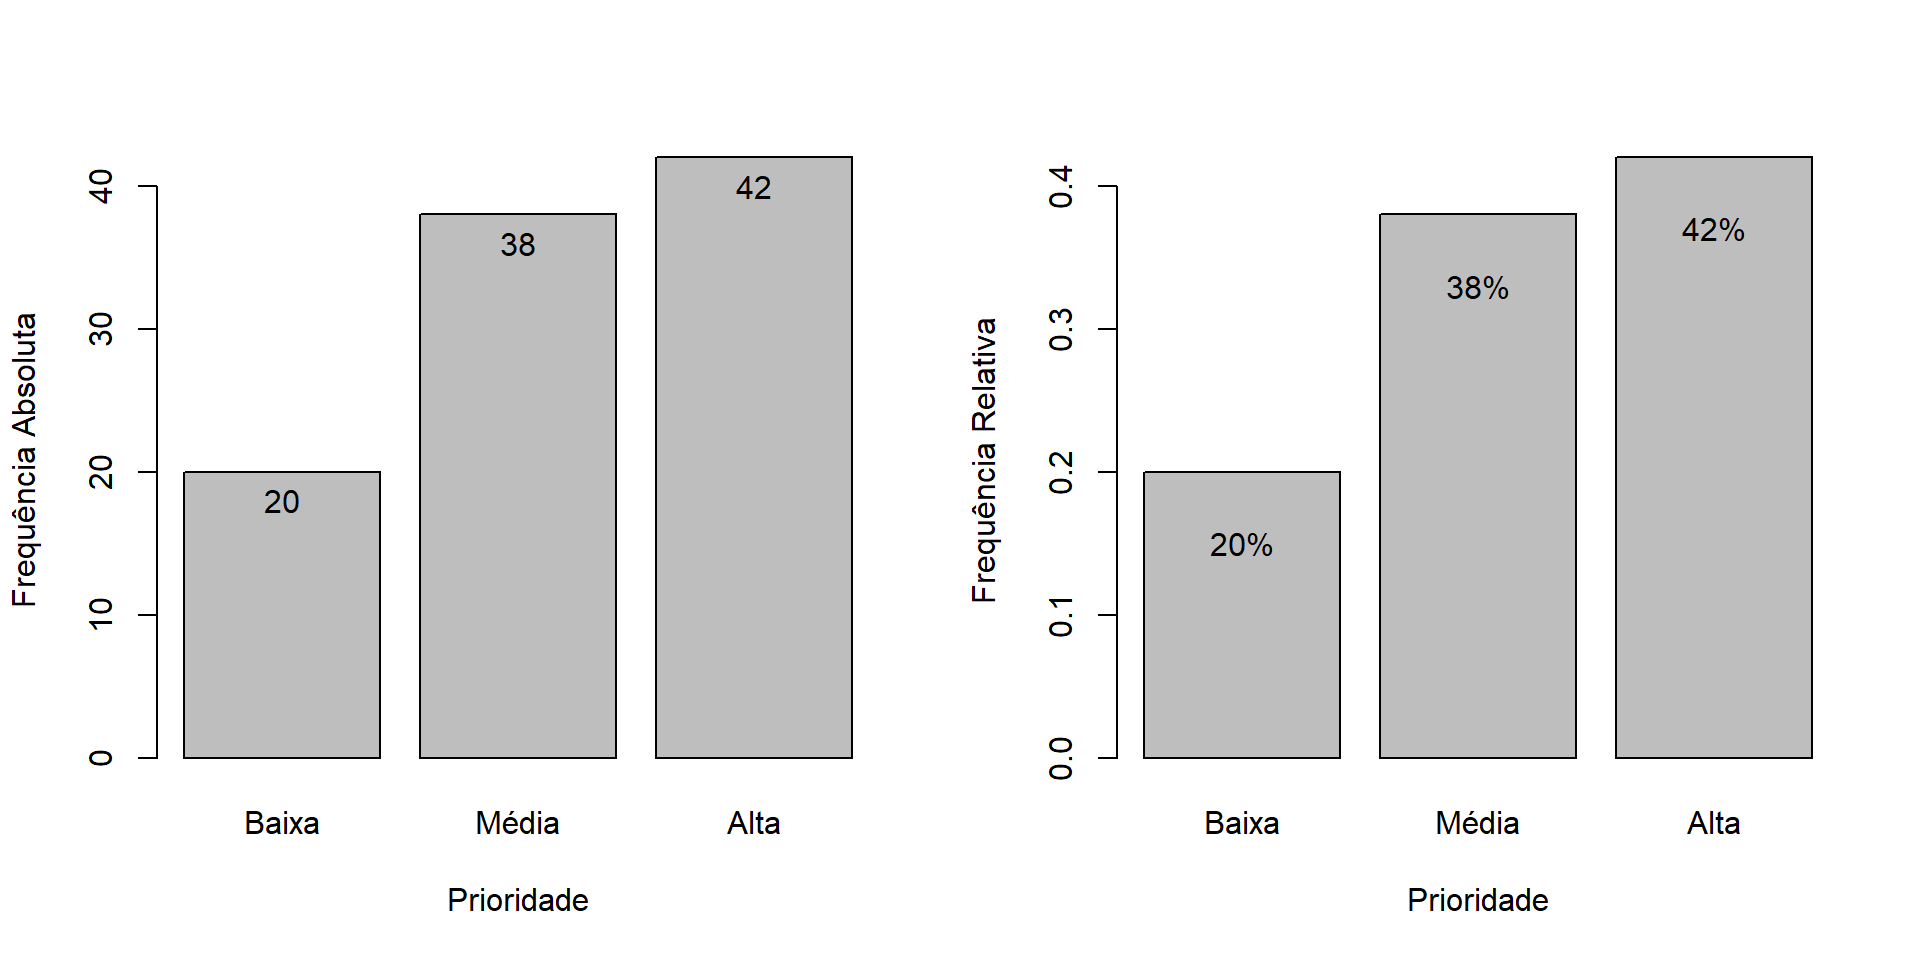
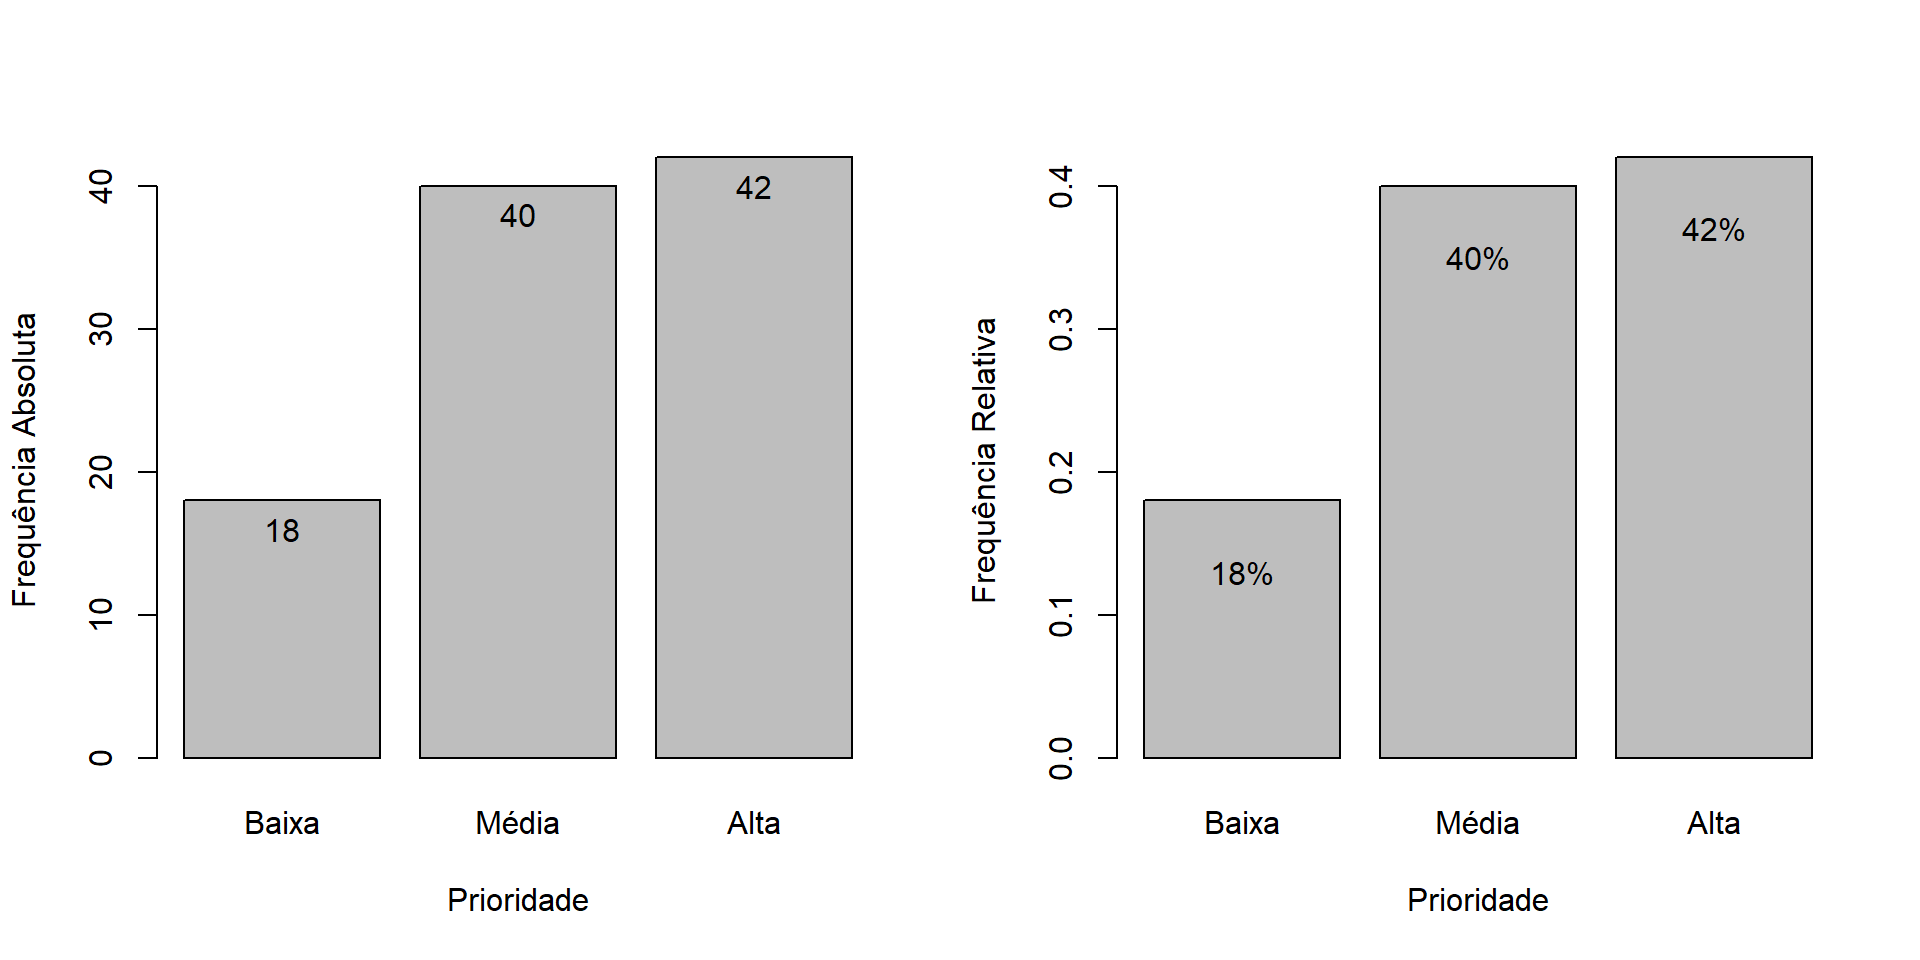
Built site for gh-pages

diff --git a/Cursos/Probabilidade_Estatistica/Cadernos/3-Tabelas_Graficos.html b/Cursos/Probabilidade_Estatistica/Cadernos/3-Tabelas_Graficos.html
@@ -1350,20 +1350,20 @@ Y          ensino fundamental ensino médio  superior
 <div class="cell">
 <div class="sourceCode cell-code" id="cb39"><pre class="sourceCode numberSource r number-lines code-with-copy"><code class="sourceCode r"><span id="cb39-1"><a></a><span class="fu">print</span>(<span class="fu">head</span>(dados_email))</span></code><button title="Copy to Clipboard" class="code-copy-button"><i class="bi"></i></button></pre></div>
 <div class="cell-output cell-output-stdout">
-<pre><code>                     remetente               assunto tamanho_kb prioridade spam
-1  Mariana-Almeida@example.com Confirmação de Pedido        356      Baixa TRUE
-2    Maria-Ribeiro@example.com  Atualização de Conta        107       Alta TRUE
-3 Fernanda-Pereira@example.com       Oferta Especial         81       Alta TRUE
-4     Lucas-Santos@example.com          Prêmio Ganho        217       Alta TRUE
-5    Lucas-Pereira@example.com       Oferta Especial        391      Baixa TRUE
-6      Lucas-Souza@example.com       Oferta Especial        178      Média TRUE
+<pre><code>                     remetente             assunto tamanho_kb prioridade  spam
+1 Lucas-Cavalcante@example.com     Oferta Especial        447      Média FALSE
+2      João-Santos@example.com Convite para Evento        382       Alta  TRUE
+3      Maria-Silva@example.com     Oferta Especial        243      Média FALSE
+4     Lucas-Santos@example.com     Oferta Especial         56      Média  TRUE
+5      Maria-Silva@example.com     Oferta Especial        404      Média FALSE
+6     Lucas-Santos@example.com        Prêmio Ganho        453       Alta FALSE
   qtd_caracteres formato
-1             60   Texto
-2            286   Texto
-3            247    HTML
-4            159    HTML
-5             79    HTML
-6             61   Texto</code></pre>
+1            182   Texto
+2            278   Texto
+3            140   Texto
+4            171   Texto
+5            165    HTML
+6             71   Texto</code></pre>
 </div>
 </div>
 </section>
@@ -1373,13 +1373,13 @@ Y          ensino fundamental ensino médio  superior
 <div class="sourceCode cell-code" id="cb41"><pre class="sourceCode numberSource r number-lines code-with-copy"><code class="sourceCode r"><span id="cb41-1"><a></a><span class="fu">str</span>(dados_email)</span></code><button title="Copy to Clipboard" class="code-copy-button"><i class="bi"></i></button></pre></div>
 <div class="cell-output cell-output-stdout">
 <pre><code>'data.frame':   100 obs. of  7 variables:
- $ remetente     : chr  "Mariana-Almeida@example.com" "Maria-Ribeiro@example.com" "Fernanda-Pereira@example.com" "Lucas-Santos@example.com" ...
- $ assunto       : chr  "Confirmação de Pedido" "Atualização de Conta" "Oferta Especial" "Prêmio Ganho" ...
- $ tamanho_kb    : num  356 107 81 217 391 178 211 257 186 426 ...
- $ prioridade    : chr  "Baixa" "Alta" "Alta" "Alta" ...
- $ spam          : logi  TRUE TRUE TRUE TRUE TRUE TRUE ...
- $ qtd_caracteres: num  60 286 247 159 79 61 145 224 170 106 ...
- $ formato       : chr  "Texto" "Texto" "HTML" "HTML" ...</code></pre>
+ $ remetente     : chr  "Lucas-Cavalcante@example.com" "João-Santos@example.com" "Maria-Silva@example.com" "Lucas-Santos@example.com" ...
+ $ assunto       : chr  "Oferta Especial" "Convite para Evento" "Oferta Especial" "Oferta Especial" ...
+ $ tamanho_kb    : num  447 382 243 56 404 453 265 495 244 438 ...
+ $ prioridade    : chr  "Média" "Alta" "Média" "Média" ...
+ $ spam          : logi  FALSE TRUE FALSE TRUE FALSE FALSE ...
+ $ qtd_caracteres: num  182 278 140 171 165 71 78 121 137 89 ...
+ $ formato       : chr  "Texto" "Texto" "Texto" "Texto" ...</code></pre>
 </div>
 </div>
 <!-- ## Histogramas -->
@@ -1408,13 +1408,13 @@ Y          ensino fundamental ensino médio  superior
 <div class="cell-output cell-output-stdout">
 <pre><code>
 Baixa Média  Alta 
-   14    33    53 </code></pre>
+   16    45    39 </code></pre>
 </div>
 <div class="sourceCode cell-code" id="cb45"><pre class="sourceCode numberSource r number-lines code-with-copy"><code class="sourceCode r"><span id="cb45-1"><a></a>(<span class="at">tabela.prop =</span> <span class="fu">prop.table</span>(tabela)) </span></code><button title="Copy to Clipboard" class="code-copy-button"><i class="bi"></i></button></pre></div>
 <div class="cell-output cell-output-stdout">
 <pre><code>
 Baixa Média  Alta 
- 0.14  0.33  0.53 </code></pre>
+ 0.16  0.45  0.39 </code></pre>
 </div>
 </div>
 </section>
@@ -1479,8 +1479,8 @@ Baixa Média  Alta
 <div class="sourceCode cell-code" id="cb51"><pre class="sourceCode numberSource r number-lines code-with-copy"><code class="sourceCode r"><span id="cb51-1"><a></a>x <span class="ot">=</span> <span class="fu">runif</span>(<span class="dv">30</span>,<span class="dv">1</span>,<span class="dv">40</span>) <span class="sc">|&gt;</span> <span class="fu">round</span>() <span class="co"># simulação</span></span>
 <span id="cb51-2"><a></a>x</span></code><button title="Copy to Clipboard" class="code-copy-button"><i class="bi"></i></button></pre></div>
 <div class="cell-output cell-output-stdout">
-<pre><code> [1]  6 23  5  9  6 32 22 30  9 14 31 23 28 36 38 20 32 11  8 33 20 23 26 29 18
-[26] 11 31 31 38  6</code></pre>
+<pre><code> [1] 15 10 19 30 23 18 30 24 20 23 34  5 25 29  6  3  5 23 37 18 25  4 38 24 20
+[26] 31 33 30 27  1</code></pre>
 </div>
 </div>
 </section>
@@ -1490,7 +1490,7 @@ Baixa Média  Alta
 <div class="cell">
 <div class="sourceCode cell-code" id="cb53"><pre class="sourceCode numberSource r number-lines code-with-copy"><code class="sourceCode r"><span id="cb53-1"><a></a>intervalos <span class="ot">&lt;-</span> <span class="fu">c</span>(<span class="dv">0</span>,<span class="dv">5</span>,<span class="dv">10</span>,<span class="dv">15</span>,<span class="dv">30</span>,<span class="dv">50</span>)</span>
 <span id="cb53-2"><a></a>inter.class<span class="ot">=</span> <span class="fu">cut</span>(x,intervalos)</span>
-<span id="cb53-3"><a></a>HIST <span class="ot">=</span>  <span class="fu">hist</span>(x,<span class="at">breaks =</span> intervalos,<span class="at">freq =</span> F,<span class="at">plot =</span> F) </span>
+<span id="cb53-3"><a></a>HIST <span class="ot">=</span>  <span class="fu">hist</span>(x,<span class="at">breaks =</span> intervalos,<span class="at">plot =</span> F) </span>
 <span id="cb53-4"><a></a></span>
 <span id="cb53-5"><a></a>tabela <span class="ot">=</span> tibble<span class="sc">::</span><span class="fu">tibble</span>(<span class="at">X =</span> <span class="fu">unique</span>(inter.class) <span class="sc">|&gt;</span> <span class="fu">sort</span>(),</span>
 <span id="cb53-6"><a></a>                        <span class="at">PM =</span> HIST<span class="sc">$</span>mids,</span>
@@ -1520,37 +1520,37 @@ Baixa Média  Alta
 <tr class="odd">
 <td style="text-align: left;">(0,5]</td>
 <td style="text-align: right;">2.5</td>
+<td style="text-align: right;">5</td>
+<td style="text-align: right;">0.1667</td>
+<td style="text-align: right;">0.0333</td>
+</tr>
+<tr class="even">
+<td style="text-align: left;">(5,10]</td>
+<td style="text-align: right;">7.5</td>
+<td style="text-align: right;">2</td>
+<td style="text-align: right;">0.0667</td>
+<td style="text-align: right;">0.0133</td>
+</tr>
+<tr class="odd">
+<td style="text-align: left;">(10,15]</td>
+<td style="text-align: right;">12.5</td>
 <td style="text-align: right;">1</td>
 <td style="text-align: right;">0.0333</td>
 <td style="text-align: right;">0.0067</td>
 </tr>
 <tr class="even">
-<td style="text-align: left;">(5,10]</td>
-<td style="text-align: right;">7.5</td>
-<td style="text-align: right;">6</td>
-<td style="text-align: right;">0.2000</td>
-<td style="text-align: right;">0.0400</td>
-</tr>
-<tr class="odd">
-<td style="text-align: left;">(10,15]</td>
-<td style="text-align: right;">12.5</td>
-<td style="text-align: right;">3</td>
-<td style="text-align: right;">0.1000</td>
-<td style="text-align: right;">0.0200</td>
-</tr>
-<tr class="even">
 <td style="text-align: left;">(15,30]</td>
 <td style="text-align: right;">22.5</td>
-<td style="text-align: right;">11</td>
-<td style="text-align: right;">0.3667</td>
-<td style="text-align: right;">0.0244</td>
+<td style="text-align: right;">17</td>
+<td style="text-align: right;">0.5667</td>
+<td style="text-align: right;">0.0378</td>
 </tr>
 <tr class="odd">
 <td style="text-align: left;">(30,50]</td>
 <td style="text-align: right;">40.0</td>
-<td style="text-align: right;">9</td>
-<td style="text-align: right;">0.3000</td>
-<td style="text-align: right;">0.0150</td>
+<td style="text-align: right;">5</td>
+<td style="text-align: right;">0.1667</td>
+<td style="text-align: right;">0.0083</td>
 </tr>
 </tbody>
 </table>

diff --git a/Cursos/Probabilidade_Estatistica/Cadernos/3-Graficos.html b/Cursos/Probabilidade_Estatistica/Cadernos/3-Graficos.html
@@ -780,20 +780,20 @@ Y          ensino fundamental ensino médio superior  Sum
 <div class="cell">
 <div class="sourceCode cell-code" id="cb13"><pre class="sourceCode numberSource r number-lines code-with-copy"><code class="sourceCode r"><span id="cb13-1"><a></a><span class="fu">print</span>(<span class="fu">head</span>(dados_email))</span></code><button title="Copy to Clipboard" class="code-copy-button"><i class="bi"></i></button></pre></div>
 <div class="cell-output cell-output-stdout">
-<pre><code>                     remetente               assunto tamanho_kb prioridade
-1   Laura-Oliveira@example.com Confirmação de Pedido        108      Baixa
-2 Fernanda-Pereira@example.com       Oferta Especial        446      Média
-3   Pedro-Oliveira@example.com       Oferta Especial        415      Baixa
-4     Maria-Santos@example.com   Convite para Evento        494      Baixa
-5   Tatiane-Santos@example.com  Atualização de Conta        114      Média
-6    João-Oliveira@example.com   Convite para Evento        327      Baixa
-   spam qtd_caracteres formato
-1  TRUE             64   Texto
-2 FALSE            292   Texto
-3 FALSE            211    HTML
-4 FALSE            104   Texto
-5  TRUE            288   Texto
-6  TRUE            238    HTML</code></pre>
+<pre><code>                    remetente              assunto tamanho_kb prioridade  spam
+1     Maria-Silva@example.com  Convite para Evento        102       Alta  TRUE
+2  Pedro-Oliveira@example.com      Oferta Especial        497       Alta FALSE
+3 Rafael-Ferreira@example.com      Oferta Especial        472      Média FALSE
+4     Pedro-Souza@example.com      Oferta Especial        144       Alta FALSE
+5       Ana-Silva@example.com      Oferta Especial        174      Média  TRUE
+6      José-Souza@example.com Atualização de Conta         57       Alta FALSE
+  qtd_caracteres formato
+1            277   Texto
+2            235    HTML
+3            293    HTML
+4            127   Texto
+5            240    HTML
+6            119   Texto</code></pre>
 </div>
 </div>
 </section>
@@ -803,13 +803,13 @@ Y          ensino fundamental ensino médio superior  Sum
 <div class="sourceCode cell-code" id="cb15"><pre class="sourceCode numberSource r number-lines code-with-copy"><code class="sourceCode r"><span id="cb15-1"><a></a><span class="fu">str</span>(dados_email)</span></code><button title="Copy to Clipboard" class="code-copy-button"><i class="bi"></i></button></pre></div>
 <div class="cell-output cell-output-stdout">
 <pre><code>'data.frame':   100 obs. of  7 variables:
- $ remetente     : chr  "Laura-Oliveira@example.com" "Fernanda-Pereira@example.com" "Pedro-Oliveira@example.com" "Maria-Santos@example.com" ...
- $ assunto       : chr  "Confirmação de Pedido" "Oferta Especial" "Oferta Especial" "Convite para Evento" ...
- $ tamanho_kb    : num  108 446 415 494 114 327 133 196 452 387 ...
- $ prioridade    : chr  "Baixa" "Média" "Baixa" "Baixa" ...
- $ spam          : logi  TRUE FALSE FALSE FALSE TRUE TRUE ...
- $ qtd_caracteres: num  64 292 211 104 288 238 244 92 130 185 ...
- $ formato       : chr  "Texto" "Texto" "HTML" "Texto" ...</code></pre>
+ $ remetente     : chr  "Maria-Silva@example.com" "Pedro-Oliveira@example.com" "Rafael-Ferreira@example.com" "Pedro-Souza@example.com" ...
+ $ assunto       : chr  "Convite para Evento" "Oferta Especial" "Oferta Especial" "Oferta Especial" ...
+ $ tamanho_kb    : num  102 497 472 144 174 57 156 182 209 256 ...
+ $ prioridade    : chr  "Alta" "Alta" "Média" "Alta" ...
+ $ spam          : logi  TRUE FALSE FALSE FALSE TRUE FALSE ...
+ $ qtd_caracteres: num  277 235 293 127 240 119 230 77 296 223 ...
+ $ formato       : chr  "Texto" "HTML" "HTML" "Texto" ...</code></pre>
 </div>
 </div>
 </section>
@@ -842,13 +842,13 @@ Y          ensino fundamental ensino médio superior  Sum
 <div class="cell-output cell-output-stdout">
 <pre><code>
 Baixa Média  Alta 
-   20    38    42 </code></pre>
+   18    40    42 </code></pre>
 </div>
 <div class="sourceCode cell-code" id="cb21"><pre class="sourceCode numberSource r number-lines code-with-copy"><code class="sourceCode r"><span id="cb21-1"><a></a>(<span class="at">tabela.prop =</span> <span class="fu">prop.table</span>(tabela)) </span></code><button title="Copy to Clipboard" class="code-copy-button"><i class="bi"></i></button></pre></div>
 <div class="cell-output cell-output-stdout">
 <pre><code>
 Baixa Média  Alta 
- 0.20  0.38  0.42 </code></pre>
+ 0.18  0.40  0.42 </code></pre>
 </div>
 </div>
 </section>

diff --git a/Cursos/Introducao_R/Cadernos/4-Funcoes.html b/Cursos/Introducao_R/Cadernos/4-Funcoes.html
@@ -301,6 +301,7 @@ window.Quarto = {
   <li><a href="#suppressmessages-para-suprimir-mensagens" id="toc-suppressmessages-para-suprimir-mensagens" class="nav-link" data-scroll-target="#suppressmessages-para-suprimir-mensagens"><strong><code>suppressMessages()</code></strong> para Suprimir Mensagens:</a></li>
   </ul></li>
   </ul></li>
+  <li><a href="#atividade" id="toc-atividade" class="nav-link" data-scroll-target="#atividade">Atividade</a></li>
   <li><a href="#referências" id="toc-referências" class="nav-link" data-scroll-target="#referências">Referências</a></li>
   </ul>
 </nav>
@@ -409,11 +410,11 @@ window.Quarto = {
 <span id="cb13-5"><a href="#cb13-5" aria-hidden="true" tabindex="-1"></a>y <span class="ot">=</span> <span class="fu">sample</span>(<span class="dv">1</span><span class="sc">:</span><span class="dv">100</span>,<span class="dv">20</span>,<span class="at">replace=</span>T)</span>
 <span id="cb13-6"><a href="#cb13-6" aria-hidden="true" tabindex="-1"></a><span class="fu">media</span>(y)</span></code><button title="Copy to Clipboard" class="code-copy-button"><i class="bi"></i></button></pre></div>
 <div class="cell-output cell-output-stdout">
-<pre><code>[1] 46.5</code></pre>
+<pre><code>[1] 47.4</code></pre>
 </div>
 <div class="sourceCode cell-code" id="cb15"><pre class="sourceCode r code-with-copy"><code class="sourceCode r"><span id="cb15-1"><a href="#cb15-1" aria-hidden="true" tabindex="-1"></a><span class="fu">mean</span>(y)</span></code><button title="Copy to Clipboard" class="code-copy-button"><i class="bi"></i></button></pre></div>
 <div class="cell-output cell-output-stdout">
-<pre><code>[1] 46.5</code></pre>
+<pre><code>[1] 47.4</code></pre>
 </div>
 </div>
 <ul>
@@ -813,6 +814,17 @@ attr(,"condition")
 </div>
 </section>
 </section>
+</section>
+<section id="atividade" class="level1">
+<h1>Atividade</h1>
+<ol type="1">
+<li><p>Escreva uma função que, dado um número de 1 a 12, imprima o nome do mês do ano correspondente.</p></li>
+<li><p>O coeficiente de variação (cv) é uma forma de medir a variabilidade dos dados. Crie uma função que calcule o coeficiente de variação de um vetor numérico. Crie uma condição para que se o vetor não for do tipo numeric, não faça o cálculo</p></li>
+<li><p>Crie uma função para criar um objeto de uma classe chamada “Livro” que representa um livro com atributos como autor e ano de publicação.</p></li>
+<li><p>Considere a seguinte função: <span class="math inline">f(x) = (x - 3)^2 + 5</span> se <span class="math inline">0=&lt;x&lt;10</span> e <span class="math inline">f(x) = 54</span> se <span class="math inline">x&gt;=10</span>. Escreva uma função considerando: erro para entrada do tipo não numérico e erro para entrada de valores negativos.</p></li>
+<li><p>Considere os argumentos x e y. Use o conceito de função infix para saber se x é divisível por Y.</p></li>
+<li><p>Crie um exemplo usando a função try. Se for erro, atribua NaN ao objeto da class try-error e imprima mensagem de erro</p></li>
+</ol>
 </section>
 <section id="referências" class="level1">
 <h1>Referências</h1>
